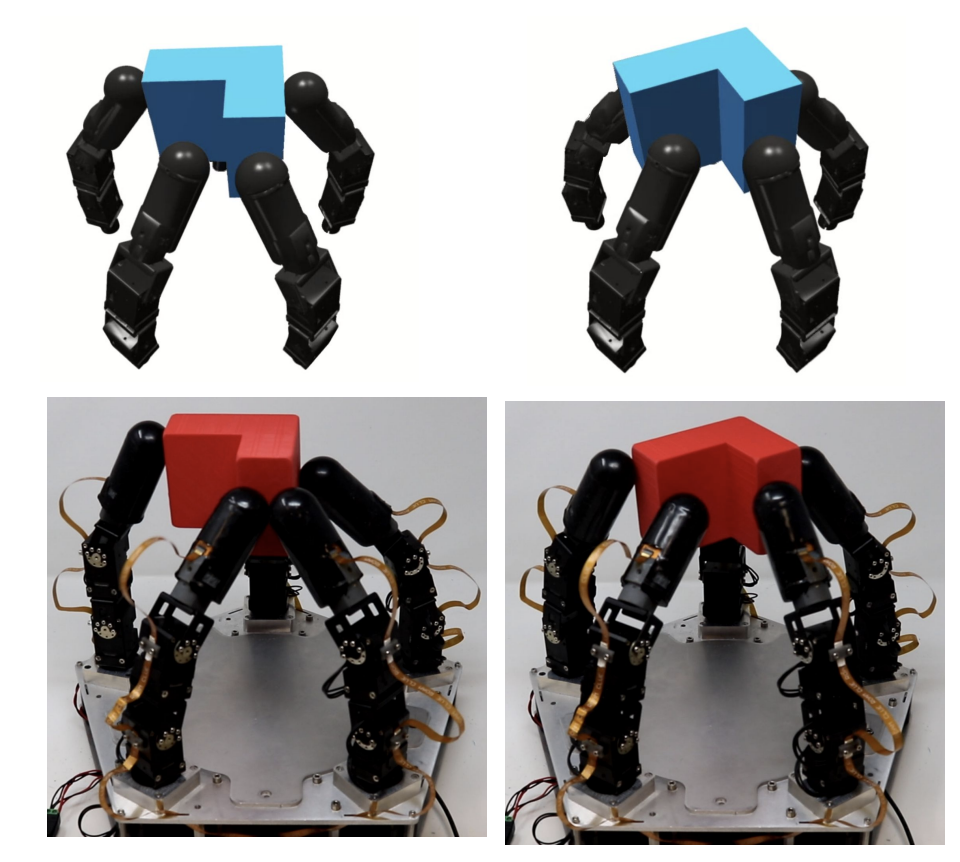
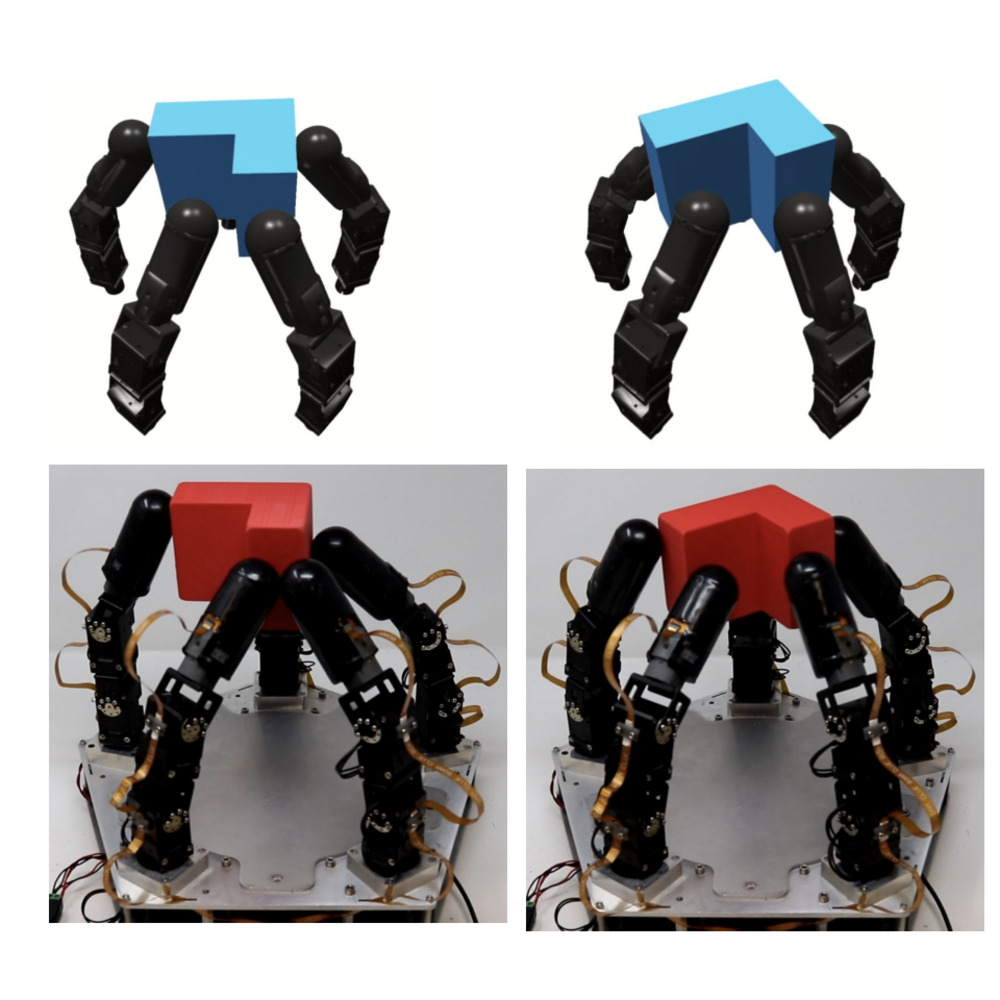
edited sbrl image

Changed region(s): [[0.0312, 0.5128, 1.0, 0.9954], [0.0625, 0.0302, 0.5, 0.4826], [0.5312, 0.0302, 0.9688, 0.5128]]

diff --git a/index.html b/index.html
@@ -53,7 +53,7 @@
         <div class="two" id='dreamfusion_image'><video  width=100% height=100% muted autoplay loop>
         Your browser does not support the video tag.
         </video></div>
-        <img src='images/sbrl.jpg' width="200">
+        <img src='images/sbrl.jpg' width="250">
       </div>
     </td>
     <td style="padding:20px;width:75%;vertical-align:middle">
